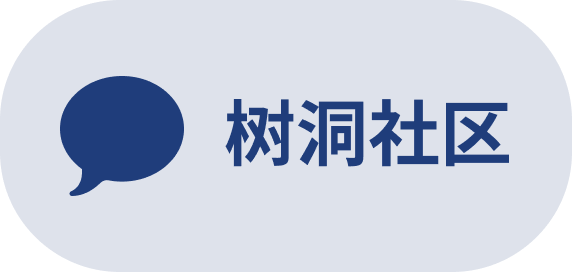
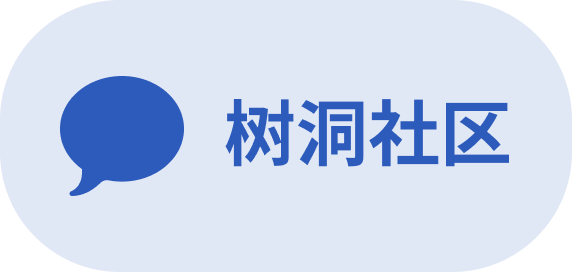
update the UI.

Changed region(s): [[0.3864, 0.3529, 0.8916, 0.6176], [0.0892, 0.2647, 0.3269, 0.7353]]

diff --git a/LZHIT/App.js b/LZHIT/App.js
@@ -1,5 +1,5 @@
 import React, { Component } from 'react';
-import { StyleSheet, Text, View, StatusBar, Image, Alert, TouchableOpacity, Linking } from 'react-native';
+import { StyleSheet, Text, View, StatusBar, Image, Alert, TouchableOpacity, Linking,ScrollView } from 'react-native';
 import LinearGradient from 'react-native-linear-gradient';
 import { Card } from 'react-native-shadow-cards';
 
@@ -8,7 +8,8 @@ export default class App extends Component {
     const { navigation } = this.props;
     return (
       <>
-        <StatusBar translucent={true} backgroundColor="transparent" barStyle="light-content" />
+        <StatusBar translucent={true} backgroundColor="transparent" barStyle="dark-content" />
+        <ScrollView>
         <View style={styles.titleBar}>
           <Text style={styles.titleText}>在鹿山</Text>
           <Text style={styles.hitokoto}>这里是一言</Text>
@@ -32,20 +33,40 @@ export default class App extends Component {
               <Text style={styles.groupText}>
                 校园生活
               </Text>
-              <View style={styles.imageBtnArea}>
+              <View style={styles.imageBtnArea2}>
                 <TouchableOpacity onPress={this.Network.bind(this)}>
                   <Image source={require('./resource/images/network.png')} style={styles.imageMinBtnNetwork} />
                 </TouchableOpacity>
-                <TouchableOpacity>
+                <TouchableOpacity onPress={this.Bbs.bind(this)}>
                   <Image source={require('./resource/images/bbs.png')} style={styles.imageMinBtnBbs} />
                 </TouchableOpacity>
                 <TouchableOpacity onPress={this.Pedemic.bind(this)}>
                   <Image source={require('./resource/images/pedemic.png')} style={styles.imageMinBtnPedemic} />
                 </TouchableOpacity>
+                <TouchableOpacity>
+                  <Image source={require('./resource/images/libCheck.png')} style={styles.imageMinBtnLibCheck} />
+                </TouchableOpacity>
+              </View>
+            </View>
+            <View style={styles.group}>
+              <Text style={styles.groupText}>
+                更多
+              </Text>
+              <View style={styles.imageBtnArea2}>
+                <TouchableOpacity>
+                  <Image source={require('./resource/images/share.png')} style={styles.imageMinBtnShare}/>
+                </TouchableOpacity>
+                <TouchableOpacity>
+                  <Image source={require('./resource/images/setting.png')} style={styles.imageMinBtnSetting}/>
+                </TouchableOpacity>
+                <TouchableOpacity>
+                  <Image source={require('./resource/images/sponsor.png')} style={styles.imageMinBtnSponsor}/>
+                </TouchableOpacity>
               </View>
             </View>
           </View>
         </View>
+        </ScrollView>
       </>
     );
   }
@@ -62,6 +83,13 @@ export default class App extends Component {
       [
         { text: "返回", onPress: this.confirm },
         { text: "我已知晓", onPress: () => Linking.openURL('https://voice.baidu.com/act/newpneumonia/newpneumonia') },
+      ]
+    );
+  }
+  Bbs() {
+    Alert.alert('暂未开放', '树洞社区暂未开放，感谢关注。',
+      [
+        { text: "知道了", onPress: this.confirm }
       ]
     );
   }
@@ -82,6 +110,7 @@ const styles = StyleSheet.create({
   hitokoto: {
     marginTop: 20,
     marginLeft: 30,
+    marginBottom:20,
     fontSize: 20,
     fontWeight: 'bold',
     fontStyle: 'italic',
@@ -107,7 +136,12 @@ const styles = StyleSheet.create({
   imageBtnArea: {
     marginTop: 15,
     flexWrap: 'wrap',
-    flexDirection: 'row'
+    flexDirection: 'row',
+  },
+  imageBtnArea2: {
+    flexWrap: 'wrap',
+    flexDirection: 'row',
+    marginBottom:10
   },
   imageBtn: {
     marginLeft: 30,
@@ -131,5 +165,29 @@ const styles = StyleSheet.create({
     marginLeft: 30,
     height: 68,
     width: 178
+  },
+  imageMinBtnLibCheck:{
+    marginTop: 10,
+    marginLeft: 30,
+    height: 68,
+    width: 196
+  },
+  imageMinBtnShare: {
+    width: 160,
+    height: 65.54,
+    marginTop: 10,
+    marginLeft: 30,
+  },
+  imageMinBtnSetting: {
+    width: 106,
+    height: 67.27,
+    marginTop: 10,
+    marginLeft: 30,
+  },
+  imageMinBtnSponsor: {
+    width: 142,
+    height: 66.94,
+    marginTop: 10,
+    marginLeft: 30,
   }
 });
